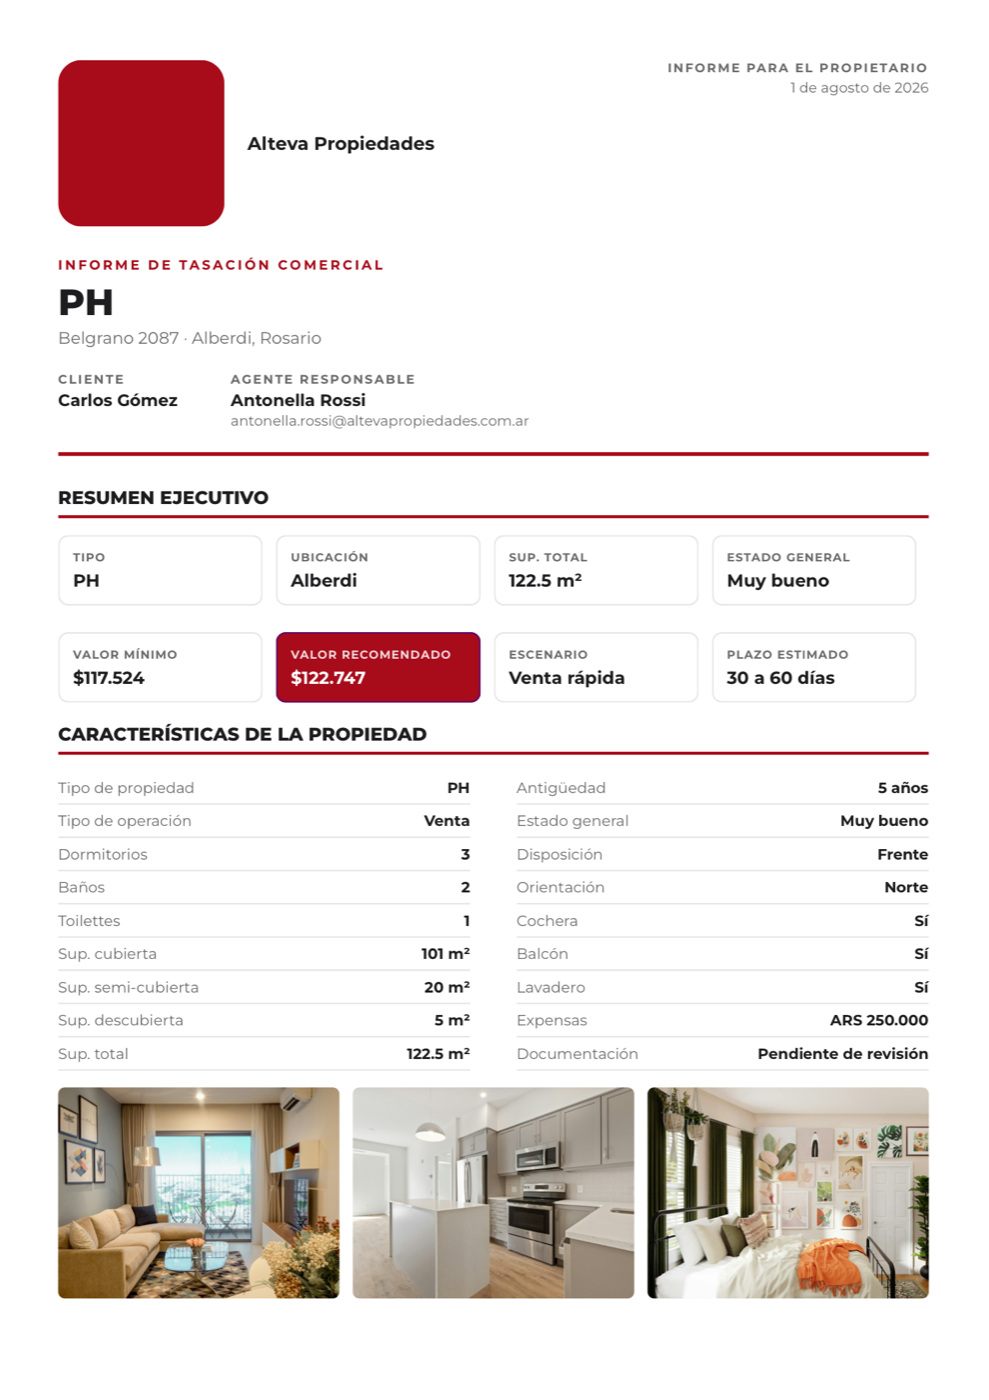
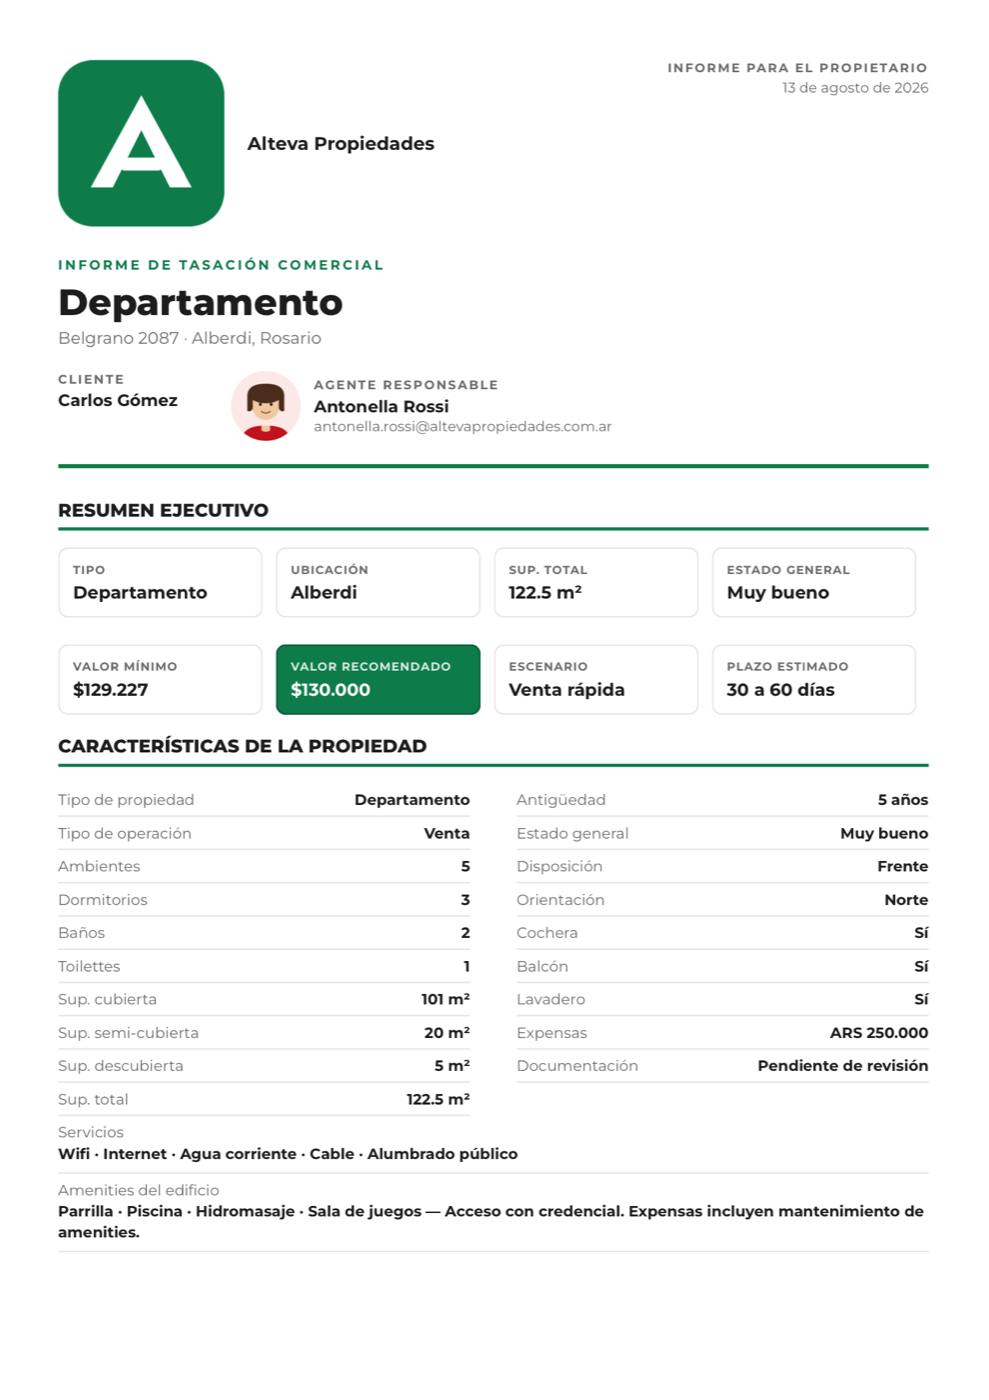
fix(sitio): el informe de tasación de la portada estaba viejo (#187)
La captura era del 1 de agosto y mostraba tres cosas que ya no son así:

- Salía en ROJO. Era el color que la plataforma le tomaba prestado a
  Vacker; Alteva, que es la inmobiliaria de la demostración, es verde. Y el
  logo era un cuadrado rojo vacío, porque todavía no tenía el suyo.
- Decía «PH». Los datos de la demostración se pasaron todos a
  departamentos.
- Le faltaban Servicios y Amenities, que se agregaron al informe en agosto,
  y el avatar del agente.

Rehecha desde el informe de Belgrano 2087 bajado de producción, con el
procedimiento del LEEME: `qlmanage -t -s 2000` y después `sips -Z 1400`.
Pesa la mitad que la anterior (237 KB contra 503) porque el PDF nuevo
comprime mejor.

El texto alternativo describía el informe entero —«sus fotos, los
comparables del mercado»— cuando lo que se ve es la primera hoja. Ahora
dice lo que hay: el resumen ejecutivo con el valor recomendado, y el
detalle de características, servicios y amenities.

Verificado: al ancho al que se muestra en el sitio, 380px, se leen el tipo
de propiedad, la dirección, el valor recomendado y el plazo estimado — que
es lo que tiene que leerse. Y los 37 e2e en verde, incluido el que lleva
cada imagen a la vista y comprueba que el navegador pudo decodificarla.

Changed region(s): [[0.0607, 0.0307, 0.9403, 0.9521]]

diff --git a/apps/sitio/app/page.tsx b/apps/sitio/app/page.tsx
@@ -438,7 +438,7 @@ export default function Home() {
             <div className="overflow-hidden rounded-brand bg-white shadow-[0_24px_60px_-28px_rgba(0,0,0,0.55)]">
               <Image
                 src="/capturas/tasador-informe.png"
-                alt="Informe de tasación en PDF: la propiedad con sus fotos, los comparables del mercado y el rango de valores propuesto."
+                alt="Primera hoja del informe de tasación: la propiedad, el resumen ejecutivo con el valor recomendado de 130.000 dólares y el plazo estimado, y el detalle de características, servicios y amenities."
                 width={989}
                 height={1400}
                 className="h-auto w-full"

diff --git a/apps/sitio/public/capturas/LEEME.md b/apps/sitio/public/capturas/LEEME.md
@@ -51,7 +51,7 @@ timeout.
 
 | Archivo | De dónde |
 |---|---|
-| `tasador-informe.png` | Tasador → Tasaciones → **Ver** |
+| `tasador-informe.png` | Tasador → Tasaciones → **Ver**. La de Belgrano 2087, que es la única de la demostración con fotos, servicios y amenities cargados |
 | `protocolo-informe.png` | Protocolo → una propiedad → **Informe** |
 | `protocolo-reporte-semanal.png` | Protocolo → **Reporte** → descargar |
 
